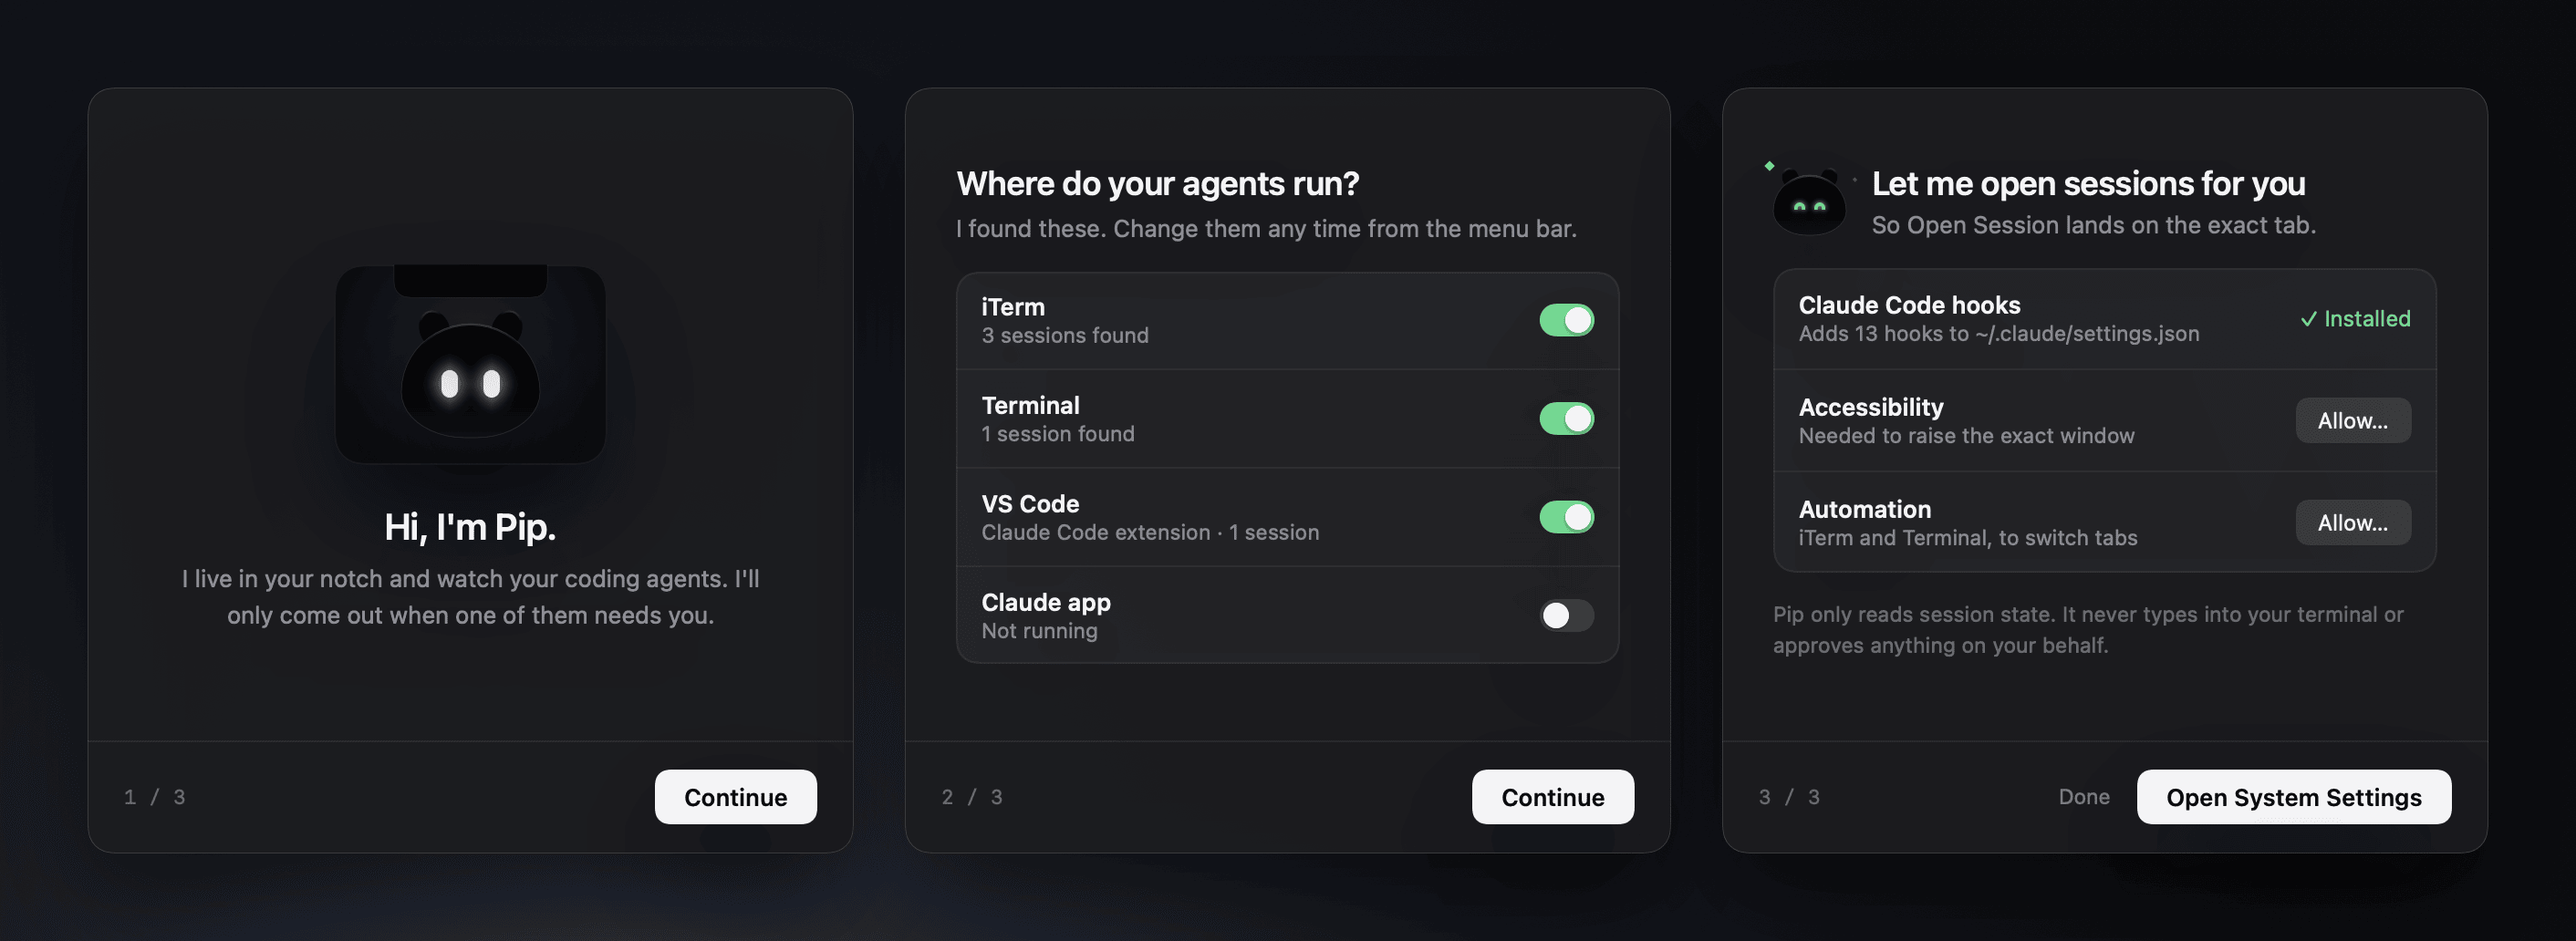
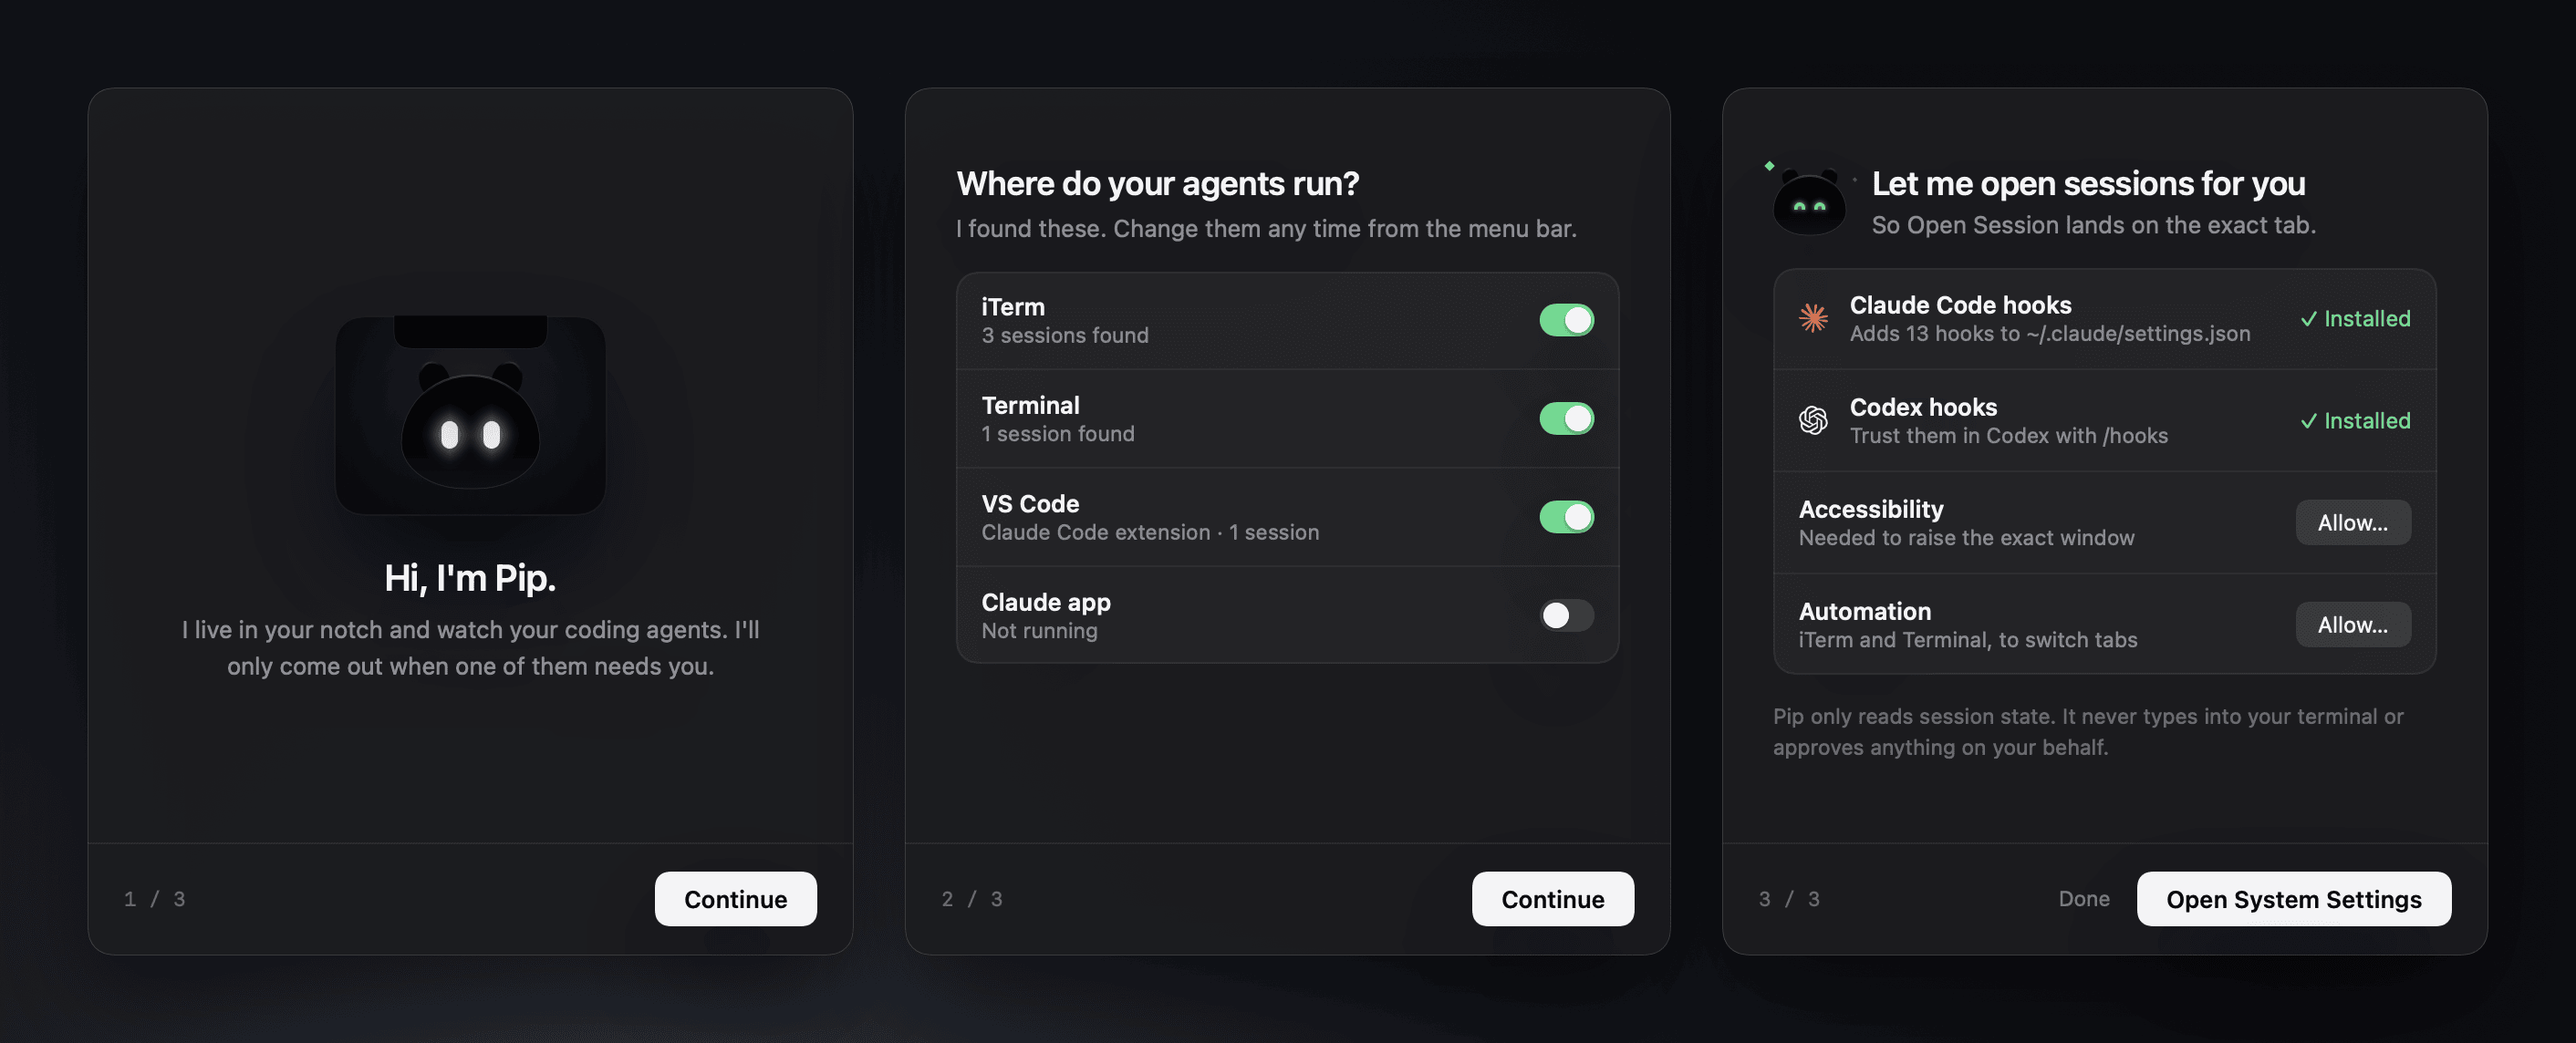
Document Codex support
The README covers Codex alongside Claude Code: how its hooks work, the
/hooks trust step, uninstall and troubleshooting. Screenshots are
re-rendered with the agent marks and the Codex hooks row.

diff --git a/README.md b/README.md
@@ -5,7 +5,7 @@
 <h1 align="center">Pip</h1>
 
 <p align="center">
-  <strong>A tiny companion that lives in your MacBook's notch and tells you when a Claude Code session needs you.</strong>
+  <strong>A tiny companion that lives in your MacBook's notch and tells you when a Claude Code or Codex session needs you.</strong>
 </p>
 
 <p align="center">
@@ -19,13 +19,13 @@
   <img src="docs/images/alert.png" width="760" alt="Pip's notch expanded into a notification: Claude needs your permission to run npm install stripe@17.2.0 in payments-api, with Open Session and Later buttons">
 </p>
 
-You start a few Claude Code sessions in iTerm, Terminal and VS Code, switch to something else, and one of them quietly stops to ask for permission. Ten minutes later you notice.
+You start a few Claude Code or Codex sessions in iTerm, Terminal and VS Code, switch to something else, and one of them quietly stops to ask for permission. Ten minutes later you notice.
 
 Pip fixes that. It sits invisibly inside the notch while your agents work. When one needs you, Pip drops out, the notch opens into a notification, and **Open Session** takes you straight to the exact terminal tab or editor window. Then Pip tucks itself away again.
 
 ## Features
 
-- **Knows why a session is waiting.** Permission requests show the exact command, questions show their choices, errors show the error, and finished runs show Claude's summary.
+- **Knows why a session is waiting.** Permission requests show the exact command, questions show their choices, errors show the error, and finished runs show the agent's last reply.
 - **Takes you to the right place.** Opens the precise iTerm tab, Terminal tab or VS Code window, and outlines it with a brief focus ring.
 - **One queue, most urgent first.** Several agents waiting become one list: permission, then questions, then errors, oldest first. Cycle through it with ⌥⌘↓.
 - **Every session at a glance.** Click the notch for a live list of what's waiting, working and finished, plus a week of history. Any row jumps to its session.
@@ -72,7 +72,7 @@ State lives in the eyes: sleepy, busy, curious, eager, worried and happy.
 1. Download **Pip-x.y.z.zip** from the [latest release](https://github.com/ahrefabhi/pip/releases/latest) and unzip it.
 2. Move **Pip.app** to your Applications folder.
 3. Open Pip, and let macOS open it once (see below).
-4. Follow the short setup. It finds where your agents run, and connects to Claude Code.
+4. Follow the short setup. It finds where your agents run, and connects to Claude Code (and Codex, if you use it).
 
 ### The first time you open Pip
 
@@ -91,20 +91,21 @@ Click **Done** (not Move to Bin), then either:
 
 You only do this once. Later versions arrive through Pip's own updater and open without asking. On macOS 14 you can also right-click Pip.app and choose **Open**.
 
-<p align="center"><img src="docs/images/onboarding.png" width="760" alt="Setup in three steps: Hi, I'm Pip; where do your agents run, with iTerm, Terminal and VS Code found; and permissions for Claude Code hooks, Accessibility and Automation"></p>
+<p align="center"><img src="docs/images/onboarding.png" width="760" alt="Setup in three steps: Hi, I'm Pip; where do your agents run, with iTerm, Terminal and VS Code found; and permissions for Claude Code and Codex hooks, Accessibility and Automation"></p>
 
-**Requirements:** macOS 14 Sonoma or later, and [Claude Code](https://docs.anthropic.com/en/docs/claude-code) in a terminal (iTerm or Terminal), in VS Code, or in the Claude app. Pip is designed for Macs with a notch; on other displays it shows as a small black pill at the top of the screen.
+**Requirements:** macOS 14 Sonoma or later, and [Claude Code](https://docs.anthropic.com/en/docs/claude-code) in a terminal (iTerm or Terminal), in VS Code, or in the Claude app, and optionally the [Codex CLI](https://developers.openai.com/codex/cli). Pip is designed for Macs with a notch; on other displays it shows as a small black pill at the top of the screen.
 
 Want to look around first? Choose **Demo Mode** from the menu bar and use **Simulate** to trigger each kind of alert.
 
 ## How it works
 
-Pip combines two sources, both on your Mac:
+Pip combines these sources, all on your Mac:
 
 1. **Claude Code's session list** (`~/.claude/sessions`) says which sessions are running and whether they're busy, idle or waiting. Pip reads it with no setup.
 2. **Claude Code hooks** say *why* a session is waiting. Setup adds entries to `~/.claude/settings.json` that run Pip's small collector, `pip-hook`, for each event. The collector keeps only what Pip shows (the command, the question and its choices, the error, Claude's summary, and which app and tab the session is in) and drops the rest, including transcripts. Records go into `~/Library/Application Support/Pip/inbox` and are deleted as soon as Pip reads them.
+3. **Codex hooks**, if Codex is installed, work the same way through `~/.codex/hooks.json`. Codex has no session list, so the collector also notes the Codex process, and Pip drops the session when that process ends. Codex runs new hooks only after you trust them: after installing, type `/hooks` in Codex and trust Pip's entries. Pip never does this for you.
 
-The collector only records. It never answers, approves or blocks anything, prints nothing, and always exits immediately, so it can't slow Claude down or change what it does. Your other settings and hooks are left exactly as they were, and your settings file is backed up before any change.
+The collector only records. It never answers, approves or blocks anything, prints nothing, and always exits immediately, so it can't slow your agent down or change what it does. Your other settings and hooks are left exactly as they were, and your settings file is backed up before any change.
 
 Pip asks macOS for two permissions. **Automation** lets it select the right iTerm or Terminal tab; without it, Open Session can't switch tabs there and points you to the setting. **Accessibility** lets it find the exact window for the focus ring; without it, Pip outlines the app's front window instead.
 
@@ -132,15 +133,17 @@ Pip checks for updates once a day through [Sparkle](https://sparkle-project.org)
 
 ## Uninstall
 
-Choose **Uninstall Pip…** from the menu bar or Settings. After you confirm, Pip removes its hooks from `~/.claude/settings.json`, deletes its data in `~/Library/Application Support/Pip`, turns off opening at login, and moves itself to the Trash. Backups of your Claude settings (`settings.json.pip-backup-…`) are left in `~/.claude`.
+Choose **Uninstall Pip…** from the menu bar or Settings. After you confirm, Pip removes its hooks from `~/.claude/settings.json` (and `~/.codex/hooks.json`), deletes its data in `~/Library/Application Support/Pip`, turns off opening at login, and moves itself to the Trash. Backups Pip made of those files (`….pip-backup-…`) are left next to them.
 
-If you delete Pip.app directly instead, its hooks stay in your Claude settings. They're harmless (the collector stops writing once 10,000 unread events pile up, about 5 MB), but to remove them, reinstall Pip and choose Uninstall, or delete the entries whose command ends in `Application Support/Pip/bin/pip-hook`.
+If you delete Pip.app directly instead, its hooks stay in your Claude (and Codex) settings. They're harmless (the collector stops writing once 10,000 unread events pile up, about 5 MB), but to remove them, reinstall Pip and choose Uninstall, or delete the entries whose command ends in `Application Support/Pip/bin/pip-hook`.
 
 ## Troubleshooting
 
 **"Pip" Not Opened: Apple could not verify "Pip" is free of malware.** Expected on the first launch of a download, because Pip isn't notarized yet. Click **Done**, then use **Open Anyway** or the `xattr` command in [The first time you open Pip](#the-first-time-you-open-pip). If macOS instead says Pip "is damaged and can't be opened", download the zip again; if it still says so, the `xattr` command above clears it.
 
 **Pip lists a session but doesn't say why it's waiting.** The hooks aren't installed, or the session started before they were. Install them from the menu bar (or Settings → Claude Code); a session that was already running may need a restart before it reports to Pip.
+
+**Pip doesn't see Codex sessions.** Install Codex hooks from the menu bar or Settings, then type `/hooks` in Codex and trust Pip's entries; Codex skips untrusted hooks. Restart any Codex session that was already running.
 
 **Open Session brings the app forward but not the right tab.** Allow Pip under System Settings → Privacy & Security → Automation for iTerm or Terminal.
 
@@ -173,8 +176,8 @@ PIP_HOME=/tmp/pip swift run Pip               # use a scratch data folder
 
 | Path | What's there |
 |---|---|
-| `Sources/PipKit` | The model, attention queue and phase machine, observation of Claude Code (inbox, registry, reducer), the hook installer and history. No UI; unit-tested. |
-| `Sources/PipHook` | `pip-hook`, the collector Claude Code runs for each hook event. |
+| `Sources/PipKit` | The model, attention queue and phase machine, observation of Claude Code and Codex (inbox, registry, reducer), the hook installer and history. No UI; unit-tested. |
+| `Sources/PipHook` | `pip-hook`, the collector Claude Code and Codex run for each hook event. |
 | `Sources/PipHookSchema` | The inbox record format shared by the collector and the app. |
 | `Sources/Pip` | The app: the notch panel and island, Pip, the views, onboarding, settings and macOS integration. |
 | `Tests/PipKitTests` | Tests for everything in PipKit. |
@@ -193,7 +196,7 @@ The script needs a clean working tree and uses the commit count as the build num
 
 ## Acknowledgements
 
-Pip is built on [Sparkle](https://sparkle-project.org) for updates. It works with [Claude Code](https://docs.anthropic.com/en/docs/claude-code) but isn't affiliated with or endorsed by Anthropic.
+Pip is built on [Sparkle](https://sparkle-project.org) for updates. It works with [Claude Code](https://docs.anthropic.com/en/docs/claude-code) and [Codex](https://developers.openai.com/codex) but isn't affiliated with or endorsed by Anthropic or OpenAI.
 
 ## License
 
